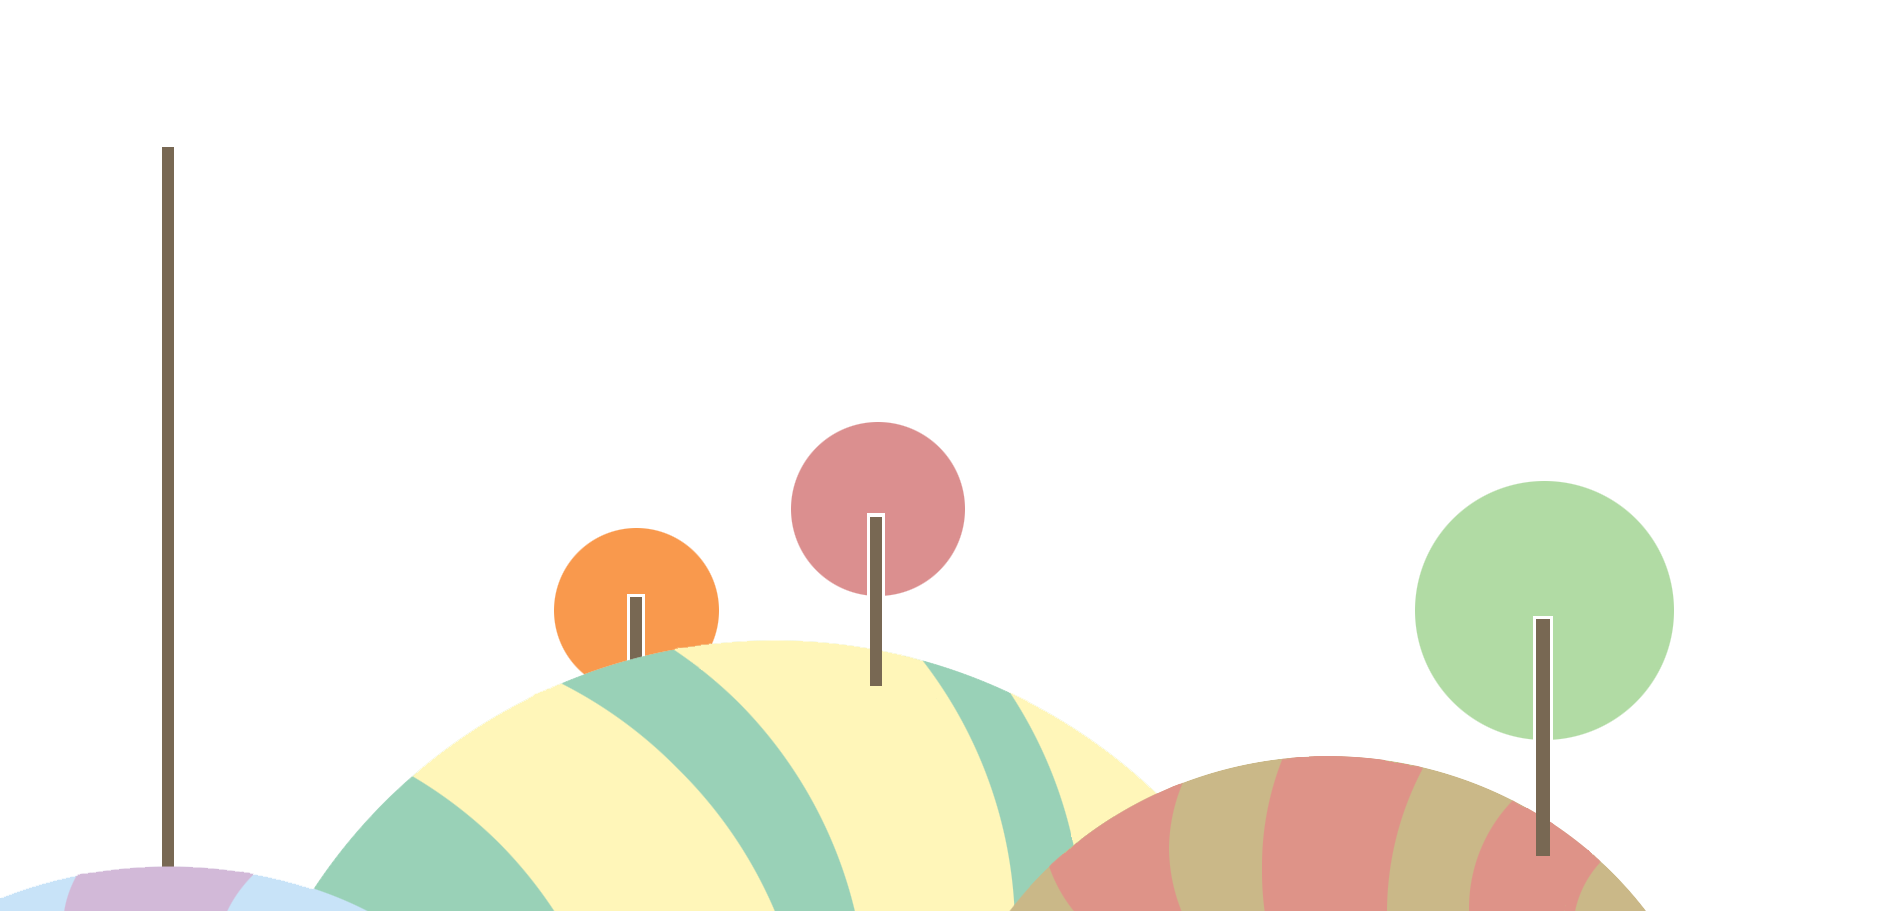
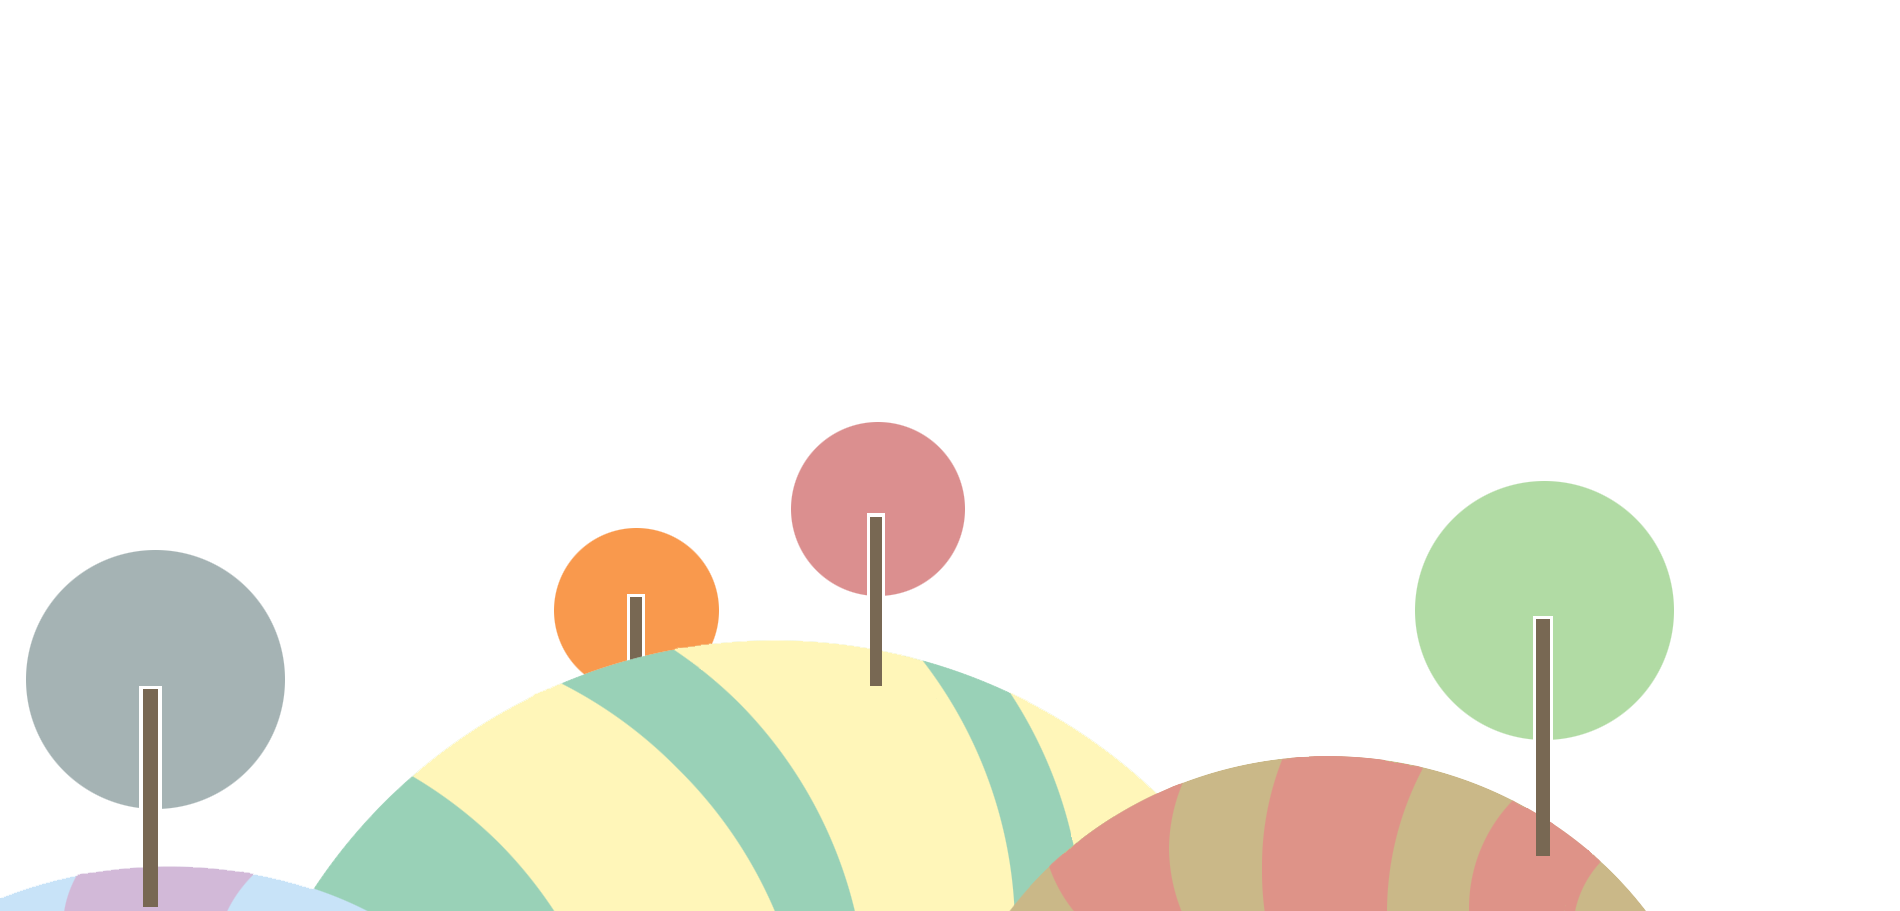
Adding more graphics to first section

Changed region(s): [[0.0, 0.1537, 0.1553, 1.0]]

diff --git a/index.html b/index.html
@@ -19,7 +19,7 @@
     </ul>
     
     <div id="about_me">
-        <div class="story"><!--div class="bg"></div-->
+        <div class="story"><div class="bg"></div>
             <div class="float-left">
                 <b>Hi!</b> My name's <span class="bold_word1"> Esther Jung! </span>
                 I'm studying <span class="bold_word2">Software Engineering.</span>

diff --git a/css/style.css b/css/style.css
@@ -157,7 +157,7 @@ background-image: url('../images/contact_me_button_open.png');
 }
 
 #about_me .bg{
-	background: url('../images/trainers.png') 50% 0 no-repeat fixed;
+	background: url('../images/about_trees_bg.png') 50% 0 no-repeat fixed;
 	height: 1300px;
 	margin: 0 auto;
 	padding: 0;
